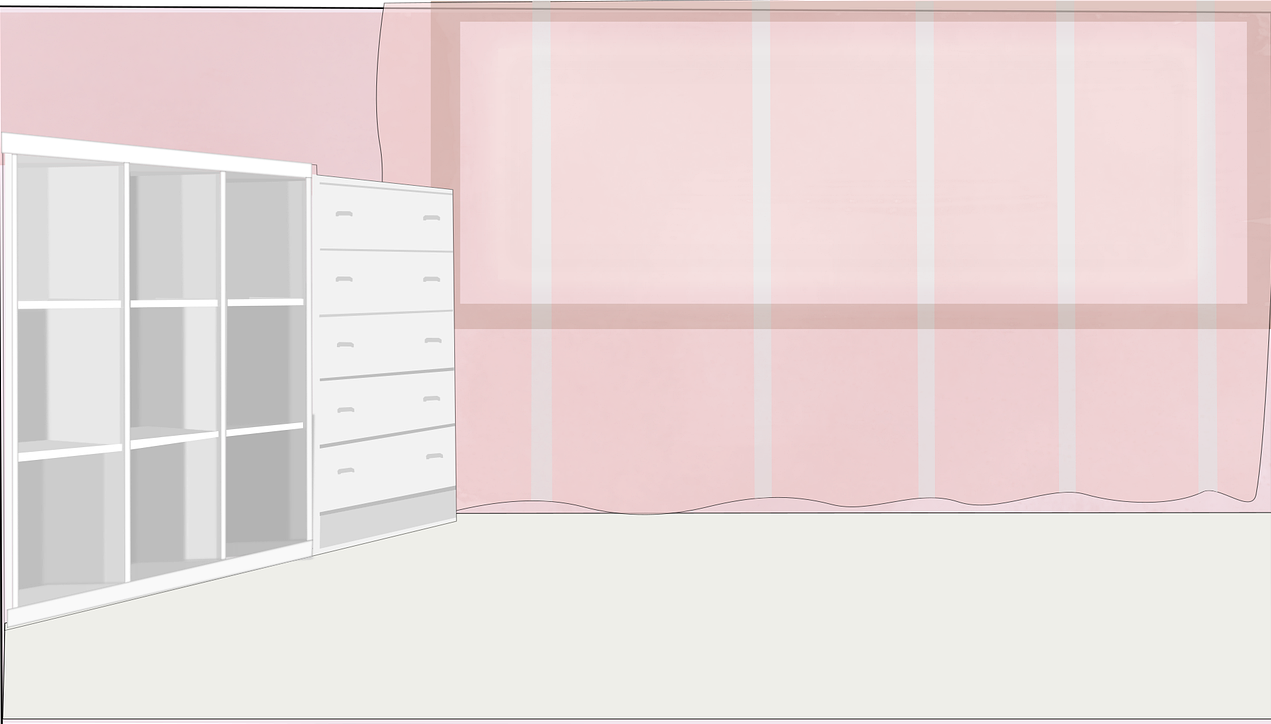
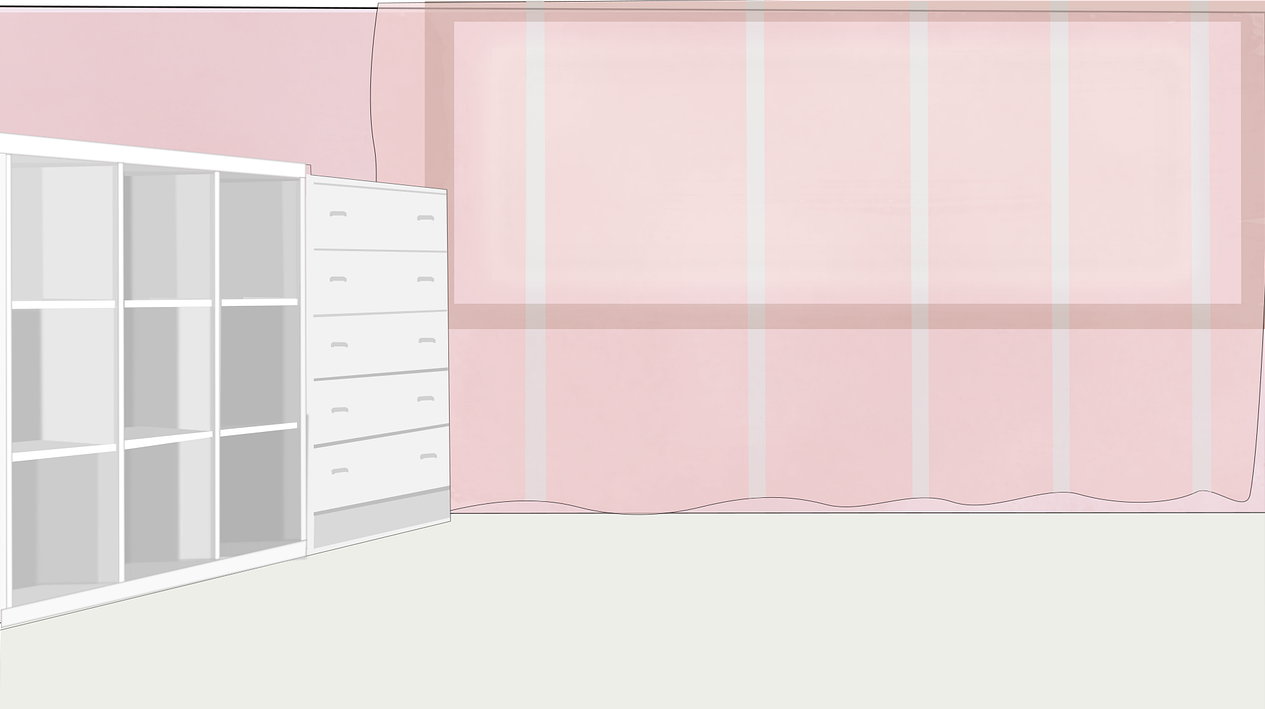
Fix styling
I hope

diff --git a/src/app/app.component.html b/src/app/app.component.html
@@ -1,177 +1,26 @@
-<style>
-  :host {
-    font-family: -apple-system, BlinkMacSystemFont, "Segoe UI", Roboto, Helvetica, Arial, sans-serif, "Apple Color Emoji", "Segoe UI Emoji", "Segoe UI Symbol";
-    font-size: 14px;
-    color: #333;
-    box-sizing: border-box;
-    -webkit-font-smoothing: antialiased;
-    -moz-osx-font-smoothing: grayscale;
-  }
-
-  h1,
-  h2,
-  h3,
-  h4,
-  h5,
-  h6 {
-    margin: 8px 0;
-  }
-
-  p {
-    margin: 0;
-  }
-
-  .spacer {
-    flex: 1;
-  }
-
-  .toolbar {
-    position: absolute;
-    top: 0;
-    left: 0;
-    right: 0;
-    height: 60px;
-    display: flex;
-    align-items: center;
-    background-color: #1976d2;
-    color: white;
-    font-weight: 600;
-  }
-
-  .toolbar img {
-    margin: 0 16px;
-  }
-
-  .toolbar #twitter-logo {
-    height: 40px;
-    margin: 0 8px;
-  }
-
-  .toolbar #youtube-logo {
-    height: 40px;
-    margin: 0 16px;
-  }
-
-  .toolbar #twitter-logo:hover,
-  .toolbar #youtube-logo:hover {
-    opacity: 0.8;
-  }
-
-  .card {
-    all: unset;
-    border-radius: 4px;
-    border: 1px solid #eee;
-    background-color: #fafafa;
-    height: 40px;
-    width: 200px;
-    margin: 0 8px 16px;
-    padding: 16px;
-    display: flex;
-    flex-direction: row;
-    justify-content: center;
-    align-items: center;
-    transition: all 0.2s ease-in-out;
-    line-height: 24px;
-  }
-
-  a,
-  a:visited,
-  a:hover {
-    color: #1976d2;
-    text-decoration: none;
-  }
-
-  a:hover {
-    color: #125699;
-  }
-
-  .terminal {
-    position: relative;
-    width: 80%;
-    max-width: 600px;
-    border-radius: 6px;
-    padding-top: 45px;
-    margin-top: 8px;
-    overflow: hidden;
-    background-color: rgb(15, 15, 16);
-  }
-
-  .terminal::before {
-    content: "\2022 \2022 \2022";
-    position: absolute;
-    top: 0;
-    left: 0;
-    height: 4px;
-    background: rgb(58, 58, 58);
-    color: #c2c3c4;
-    width: 100%;
-    font-size: 2rem;
-    line-height: 0;
-    padding: 14px 0;
-    text-indent: 4px;
-  }
-
-  .terminal pre {
-    font-family: SFMono-Regular,Consolas,Liberation Mono,Menlo,monospace;
-    color: white;
-    padding: 0 1rem 1rem;
-    margin: 0;
-  }
-
-
-  /* Responsive Styles */
-  @media screen and (max-width: 767px) {
-    .card-container > *:not(.circle-link) ,
-    .terminal {
-      width: 100%;
-    }
-
-    .card:not(.highlight-card) {
-      height: 16px;
-      margin: 8px 0;
-    }
-
-    .card.highlight-card span {
-      margin-left: 72px;
-    }
-
-    svg#rocket-smoke {
-      right: 120px;
-      transform: rotate(-5deg);
-    }
-  }
-
-  @media screen and (max-width: 575px) {
-    svg#rocket-smoke {
-      display: none;
-      visibility: hidden;
-    }
-  }
-</style>
-
 <!-- Content Section -->
 <div class="content-section">
   <!-- Buttons Section -->
   <div class="button-section">
       <div onclick="location.href = '' ">
         <img src="../assets/images/mixnmatch.png">
-        Mix & match
+        <p>Mix & match</p>
       </div>
       <div onclick="location.href = '' ">
         <img src="../assets/images/camera.jpg">
-        Add new clothes
+        <p>Add new clothes</p>
       </div>
   </div>
 
   <!-- Images -->
-  <div class="images">
+  <div class="images-section">
       <div class="cat">
-        <img class="top" src="../assets/images/cat.png">
-        <img class="bottom animate" src="../assets/images/cat-lick.png">
+        <img class="static" src="../assets/images/cat.png">
+        <img class="static opaque animate" src="../assets/images/cat-lick.png">
       </div>
       <div class="cabinet">
-          <img class="top open" src="../assets/images/open-cabinet.png">
-          <img class="bottom" src="../assets/images/closed-cabinet.png">
+          <img class="static open" src="../assets/images/open-cabinet.png">
+          <img class="static opaque" src="../assets/images/closed-cabinet.png">
       </div>
   </div> 
 

diff --git a/src/app/app.component.scss b/src/app/app.component.scss
@@ -1,11 +1,17 @@
+p {
+    margin: 0;
+    font-family: sans-serif;
+}
+
 .content-section {
     display: flex;
     background-image: url("../assets/images/roombg.png");
     background-repeat: no-repeat;
     background-position: center;
     background-size: cover;
+    justify-content: center;
     align-items: center;
-    height: 100vh;
+    height: 98vh;
     width: 100vw;
 }
 
@@ -19,12 +25,14 @@
     div {
         background-color: pink;
         color: transparent;
-        width: 200px;
-        height: 200px;
+        width: 15vw;
+        height: 15vw;
+        max-width: 200px;
+        max-height: 200px;
         padding: 2vh 2vw;
         border: none;
         border-radius: 20px;
-        margin: 2vw;
+        margin: 2vh 2vw;
         padding: 2vw;
         cursor: pointer;
         display: flex;
@@ -46,28 +54,32 @@
     }
 }
 
-.images {
-    width: 80vw;
-    height: 100%;
+.images-section {
     display: flex;
-    justify-items: center;
+    flex-direction: row;
+    align-items: center;
+    width: 70vw;
+    height: 100vh;
 }
 
 .cat {
-    margin: 0;
     padding: 0;
+    margin: 0 6vw;
 
     img {
         bottom: 2vh;
         max-height: 20vh;
+        width: 10vw;
     }
 }
 
 .cabinet {
-    margin-left: 5vw;
+    cursor: pointer;
 
     img {
-        max-height: 90%;
+        max-width: 50%;
+        bottom: 2vh;
+        right: 2vw;
     }
 
     .open {
@@ -80,20 +92,18 @@
         opacity: 1;
     }
     
-    .bottom {
+    .opaque {
         display: none;
     }
 } 
 
-.top{
+.static {
     object-fit: contain;
-    position: absolute;
+    position: absolute;    
 }
 
-.bottom{
+.opaque{
     opacity: 1;
-    object-fit: contain;
-    position: absolute;
 }
 
 .hidden {
